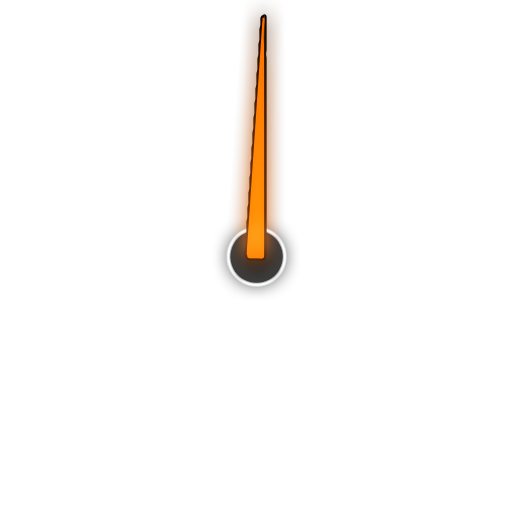
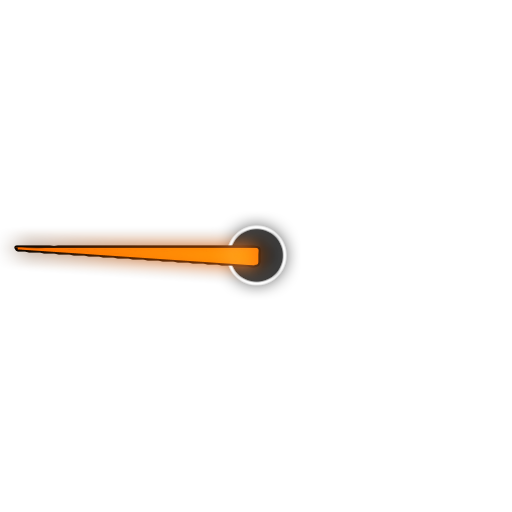
contact, about

Changed region(s): [[0.0, 0.0, 0.5625, 0.5625]]

diff --git a/assets/css/style.css b/assets/css/style.css
@@ -765,7 +765,7 @@ button:hover {
 /* === About Us Section === */
 .about-section {
   max-width: 1100px;
-  margin: 150px auto 80px auto;
+  margin: 50px auto 80px auto;
   padding: 60px 40px;
   background: rgba(255, 255, 255, 0.8);
   backdrop-filter: blur(10px);
@@ -930,29 +930,38 @@ button:hover {
 .speedometer,
 .speedometer-bg {
   position: absolute;
-  top: 4px;
-  right: 15px;
-  width: 150px;
   z-index: 0;
+  opacity: 0.5;
+}
+
+.speedometer{
+  top: 8px;
+  right: 20%;
 }
 
 .speedometer-bg {
   animation: spinGauge 40s linear infinite;
+  top: 30px;
+  right: 25%;
 }
 
 @media (max-width: 768px) {
-  .speedometer,
-  .speedometer-bg {
-    width: 115px;
+  .speedometer {
+    /* width: 115px; */
     top: 10px;
-    right: 10px;
+    right: 87px;
+  }
+
+  .speedometer-bg {
+    top: 30px;
+    right: 130px;
   }
 }
 
 @media (max-width: 550px) {
   .speedometer,
   .speedometer-bg {
-    width: 110px;
+    /* width: 110px; */
     top: 8px;
     right: 8px;
   }
@@ -961,7 +970,7 @@ button:hover {
 @media (max-width: 480px) {
   .speedometer,
   .speedometer-bg {
-    width: 100px;
+    width: 410px;
     top: 6px;
     right: 6px;
   }
@@ -970,7 +979,7 @@ button:hover {
 @media (max-width: 380px) {
   .speedometer,
   .speedometer-bg {
-    width: 80px;
+    width: 350px;
     top: 5px;
     right: 5px;
   }
@@ -1121,33 +1130,11 @@ body.dark-mode .partners-section {
 .contact-form {
   max-width: 600px;
   margin: 0 auto;
-  background: rgba(255, 255, 255, 0.85);
+  /* background: rgba(255, 255, 255, 0.85); */
   padding: 40px;
   border-radius: 16px;
   box-shadow: 0 10px 40px rgba(0, 0, 0, 0.05);
-  backdrop-filter: blur(8px);
-}
-
-.form-group {
-  position: relative;
-  margin-bottom: 30px;
-}
-
-.contact-form input,
-.contact-form textarea {
-  width: 100%;
-  padding: 14px 12px;
-  font-size: 1rem;
-  border: 1px solid #cbd5e1;
-  border-radius: 8px;
-  background: transparent;
-  color: #1e293b;
-  outline: none;
-  transition: 0.3s ease;
-}
-
-.contact-form textarea {
-  resize: vertical;
+  /* backdrop-filter: blur(8px); */
 }
 
 .form-group label {
@@ -1157,7 +1144,7 @@ body.dark-mode .partners-section {
   color: #64748b;
   pointer-events: none;
   transition: all 0.3s ease;
-  background: white;
+  /* background: white; */
   padding: 0 4px;
 }
 
@@ -2780,16 +2767,6 @@ button:hover,
     margin-top: 150px;
 }
 
-.contact-form {
-  max-width: 600px;
-  margin: 0 auto;
-  background: rgba(255, 255, 255, 0.85);
-  padding: 40px;
-  border-radius: 16px;
-  box-shadow: 0 10px 40px rgba(0, 0, 0, 0.05);
-  backdrop-filter: blur(8px);
-}
-
 .form-group {
   position: relative;
   margin-bottom: 30px;
@@ -2803,45 +2780,13 @@ button:hover,
   border: 1px solid #cbd5e1;
   border-radius: 8px;
   background: transparent;
-  color: #1e293b;
+  color: #fff;
   outline: none;
   transition: 0.3s ease;
 }
 
 .contact-form textarea {
   resize: vertical;
-}
-
-.form-group label {
-  position: absolute;
-  left: 12px;
-  top: 14px;
-  color: #64748b;
-  pointer-events: none;
-  transition: all 0.3s ease;
-  /* background: white; */
-  padding: 0 4px;
-}
-
-.contact-form input:focus + label,
-.contact-form input:not(:placeholder-shown) + label,
-.contact-form textarea:focus + label,
-.contact-form textarea:not(:placeholder-shown) + label {
-  top: -10px;
-  left: 10px;
-  font-size: 0.8rem;
-  color: #2563eb;
-}
-
-.form-alert {
-  margin-bottom: 20px;
-  padding: 10px 20px;
-  border-radius: 6px;
-  font-weight: 600;
-  color: white;
-  background: #22c55e;
-  display: inline-block;
-  animation: fadeIn 0.5s ease-in-out;
 }
 
 /* === Keyframes === */
@@ -2920,3 +2865,99 @@ button:hover,
   }
 }
 
+.about-banner {
+  position: relative;
+  width: 100%;
+  height: 60vh;
+  background: url('../images/about-banner.jpg') no-repeat center center/cover;
+  display: flex;
+  align-items: center;
+  justify-content: center;
+  overflow: hidden;
+  margin-top: 120px;
+}
+
+.banner-overlay {
+  background: rgba(0, 0, 0, 0.5);
+  color: #fff;
+  padding: 40px 20px;
+  text-align: center;
+  border-radius: 12px;
+  animation: fadeIn 2s ease-out forwards;
+}
+
+.about-banner h1 {
+  font-size: 3rem;
+  font-weight: 800;
+  margin-bottom: 10px;
+  text-shadow: 2px 2px 6px rgba(0,0,0,0.6);
+}
+
+.about-banner p {
+  font-size: 1.2rem;
+  text-shadow: 1px 1px 4px rgba(0,0,0,0.6);
+}
+
+@keyframes fadeIn {
+  from { opacity: 0; transform: translateY(30px); }
+  to { opacity: 1; transform: translateY(0); }
+}
+
+/* Responsive */
+@media (max-width: 768px) {
+  .about-banner h1 {
+    font-size: 2rem;
+  }
+
+  .about-banner p {
+    font-size: 1rem;
+  }
+}
+
+@media (max-width: 480px) {
+  .about-banner {
+    height: 40vh;
+  }
+
+  .banner-overlay {
+    padding: 20px 10px;
+  }
+
+  .about-banner h1 {
+    font-size: 1.6rem;
+  }
+
+  .about-banner p {
+    font-size: 0.95rem;
+  }
+}
+
+.contact-video-wrapper {
+  position: relative;
+  overflow: hidden;
+}
+
+.contact-bg-video {
+  position: absolute;
+  top: 0; left: 0;
+  width: 100%;
+  height: 100%;
+  object-fit: cover;
+  z-index: 0;
+  filter: brightness(0.5); /* darken for better contrast */
+}
+
+/* Ensure content stays above video */
+.contact-form-section {
+  position: relative;
+  z-index: 2;
+}
+
+/* Optional: extra overlay layer for style */
+.contact-video-wrapper::after {
+  content: "";
+  position: absolute;
+  inset: 0;
+  background: rgba(0, 0, 0, 0.4);
+  z-index: 1;
+}

diff --git a/pages/contact.php b/pages/contact.php
@@ -16,29 +16,37 @@ if ($_SERVER["REQUEST_METHOD"] == "POST") {
 }
 ?>
 
-<section class="contact-form-section">
-  <h2>Get in Touch</h2>
+<div class="contact-video-wrapper">
+  <video autoplay muted loop playsinline class="contact-bg-video">
+    <source src="assets/videos/contact-bg.mp4" type="video/mp4">
+    Your browser does not support the video tag.
+  </video>
 
-  <?php if (isset($alert)) echo "<p class='form-alert $alertClass'>$alert</p>";?>
+  <section class="contact-form-section">
+    <h2>Get in Touch</h2>
 
-  <form method="POST" action="router.php?page=contact" class="contact-form">
-    <div class="form-group">
-      <input type="text" name="name" required>
-      <label>Name</label>
-    </div>
+    <?php if (isset($alert)) echo "<p class='form-alert $alertClass'>$alert</p>";?>
 
-    <div class="form-group">
-      <input type="email" name="email" required>
-      <label>Email</label>
-    </div>
+    <form method="POST" action="router.php?page=contact" class="contact-form">
+      <div class="form-group">
+        <input type="text" name="name" required>
+        <label>Name</label>
+      </div>
 
-    <div class="form-group">
-      <textarea name="message" rows="5" required></textarea>
-      <label>Message</label>
-    </div>
+      <div class="form-group">
+        <input type="email" name="email" required>
+        <label>Email</label>
+      </div>
 
-    <button type="submit" class="form-btn">Send Message</button>
-  </form>
-</section>
+      <div class="form-group">
+        <textarea name="message" rows="5" required></textarea>
+        <label>Message</label>
+      </div>
+
+      <button type="submit" class="form-btn">Send Message</button>
+    </form>
+  </section>
+</div>
+
 
 

diff --git a/pages/about.php b/pages/about.php
@@ -1,3 +1,10 @@
+<section class="about-banner">
+  <div class="banner-overlay">
+    <h1>Driven by Passion</h1>
+    <p>The ultimate automotive experience in Sri Lanka</p>
+    <a href="contact" class="btn-slide cta-button">Get In Touch</a>
+  </div>
+</section>
 <section class="about-section" id="about">
   <div class="about-container">
     <div class="about-text" data-animate="fade-up">
